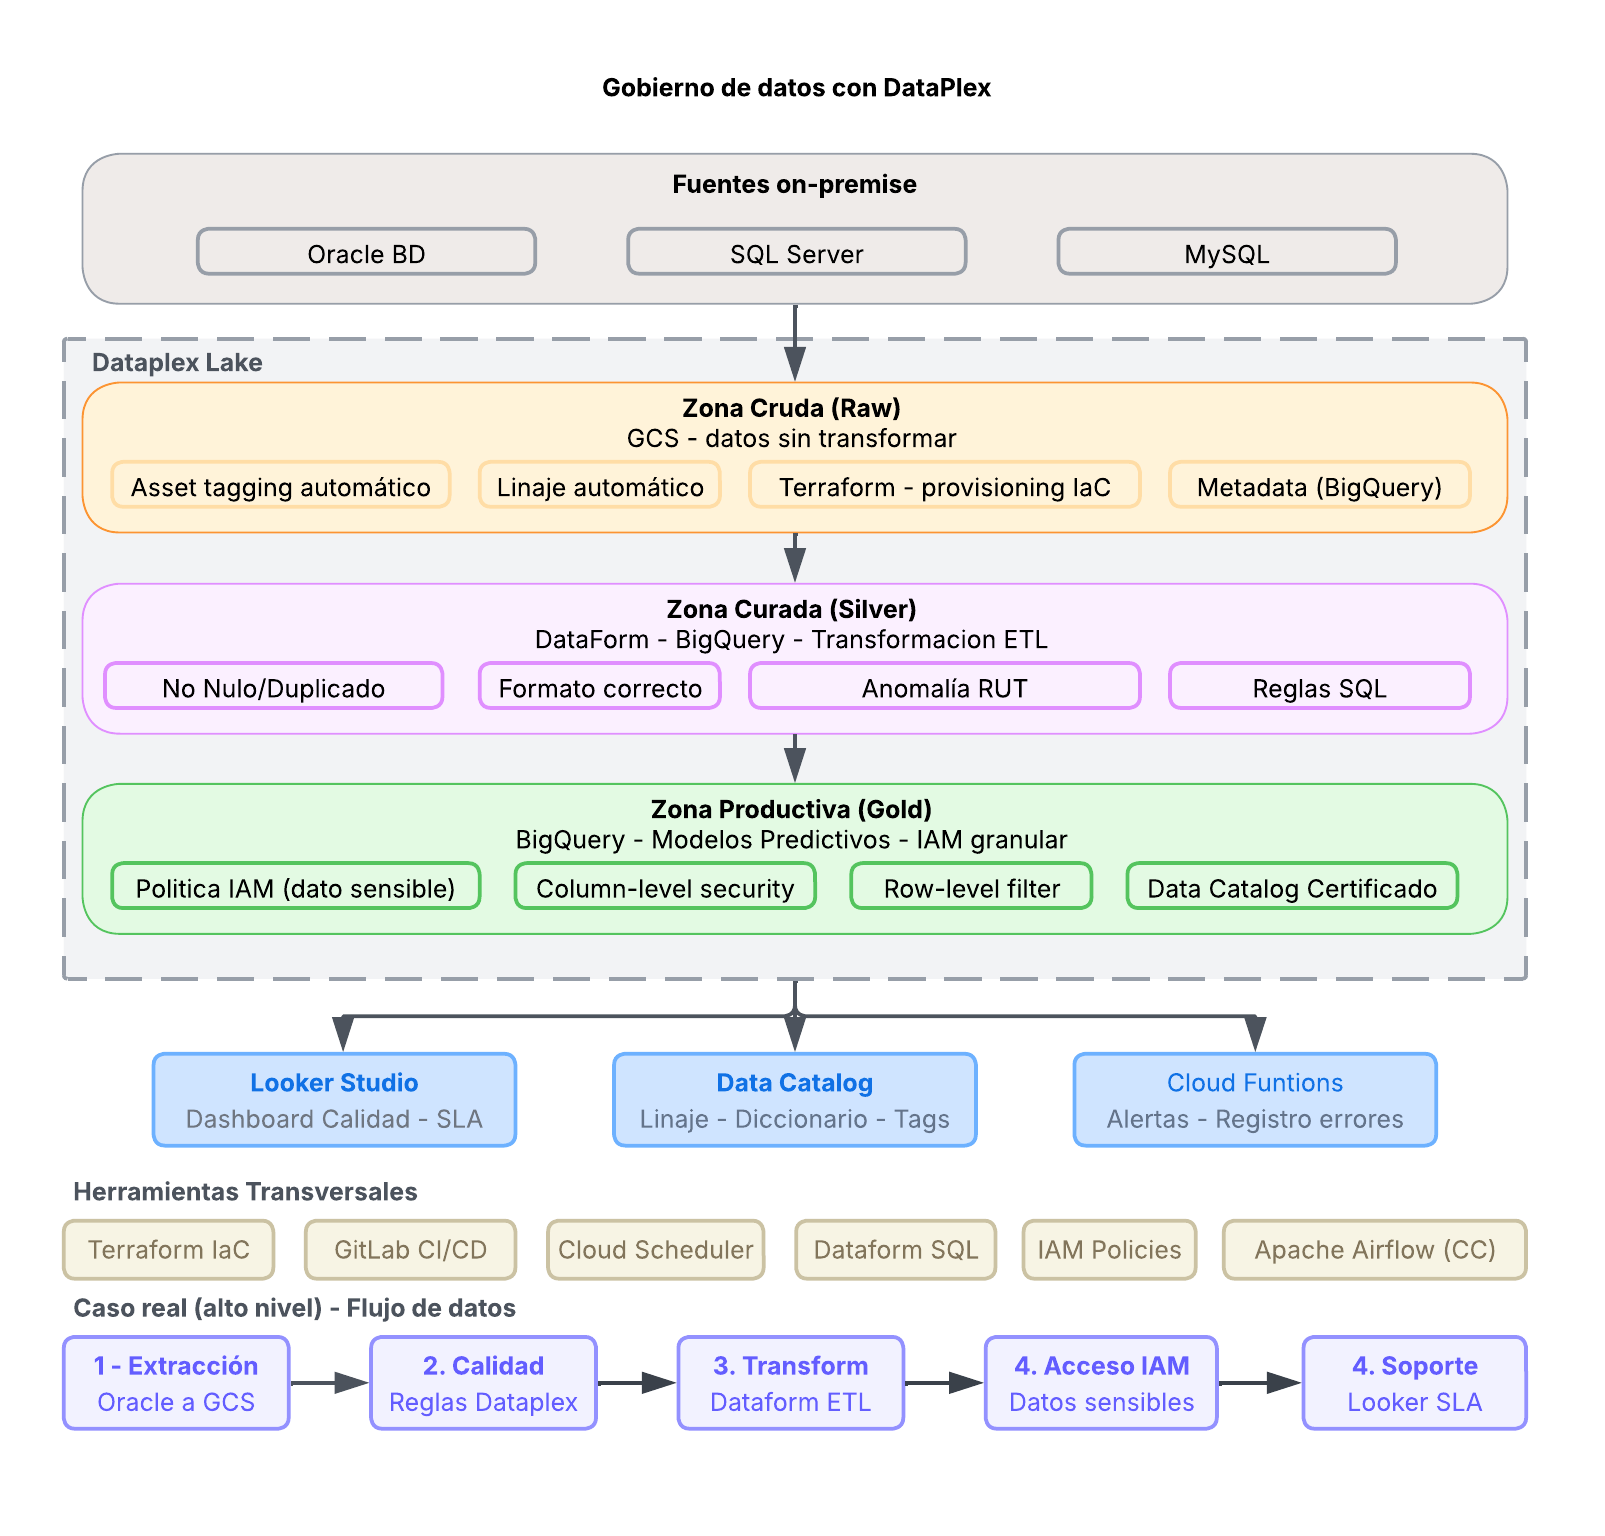
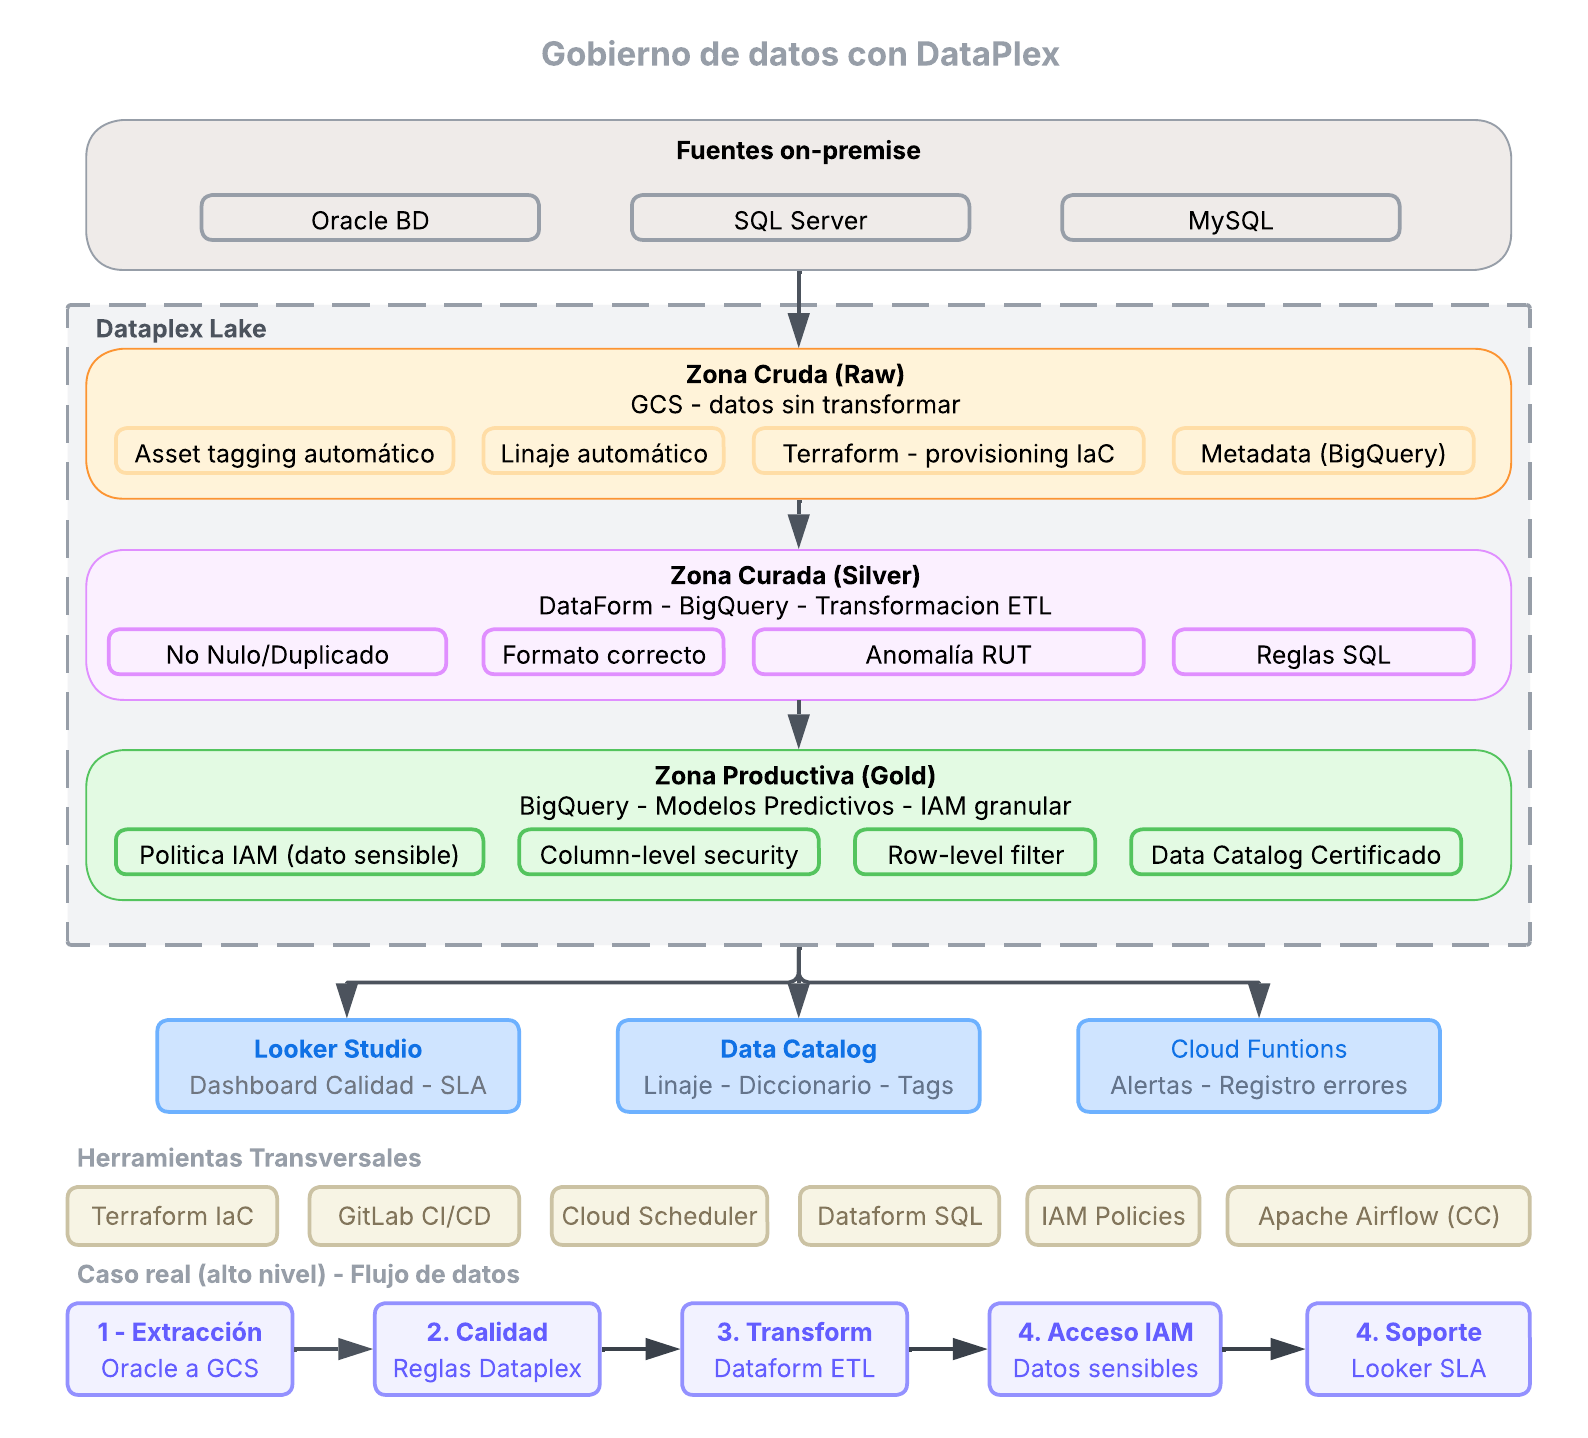
feat: Agregar POC Generador de Metadata con IA en AFP Capital
Nuevo proyecto con diagrama, caso real AFP (entradas/salidas), stack
tecnológico y sección input/output en el componente. Actualiza imagen
de arquitectura Dataplex y renombra tablas heredadas de Oracle
(tbl_cotizaciones → tabla_cotizaciones, val_cuota_hist → cuota_historica).

Changed region(s): [[0.0309, 0.0918, 0.9874, 0.9791], [0.3394, 0.0306, 0.6788, 0.0612], [0.0309, 0.1224, 0.0617, 0.1836]]

diff --git a/src/components/sections/company/ProjectDetail.module.css b/src/components/sections/company/ProjectDetail.module.css
@@ -243,6 +243,74 @@
   padding: 0.35rem 0.75rem;
 }
 
+.realCaseSection {
+  display: flex;
+  flex-direction: column;
+  gap: 1rem;
+}
+
+.realCaseSection > h2 {
+  font-size: 1.5rem;
+  font-weight: 600;
+  color: #ffffff;
+}
+
+.ioGrid {
+  display: grid;
+  grid-template-columns: 1fr 1fr;
+  gap: 1rem;
+}
+
+.ioCard {
+  padding: 1.25rem 1.5rem;
+  border: 1px solid rgba(100, 200, 255, 0.15);
+  border-radius: 0.75rem;
+  background: linear-gradient(135deg, rgba(40, 40, 60, 0.6) 0%, rgba(60, 40, 80, 0.6) 100%);
+}
+
+.ioHeader {
+  display: flex;
+  align-items: center;
+  gap: 0.6rem;
+  margin-bottom: 1rem;
+}
+
+.ioHeader i {
+  font-size: 1.2rem;
+  color: #64c8ff;
+}
+
+.ioHeader h3 {
+  font-size: 1rem;
+  font-weight: 600;
+  color: #64c8ff;
+  margin: 0;
+}
+
+.ioCard ul {
+  list-style: none;
+  padding: 0;
+  margin: 0;
+  display: flex;
+  flex-direction: column;
+  gap: 0.65rem;
+}
+
+.ioCard li {
+  font-size: 0.9rem;
+  color: #c7cdd6;
+  line-height: 1.5;
+  padding-left: 1rem;
+  position: relative;
+}
+
+.ioCard li::before {
+  content: '—';
+  position: absolute;
+  left: 0;
+  color: rgba(100, 200, 255, 0.5);
+}
+
 @media (max-width: 768px) {
   .title {
     font-size: 1.8rem;
@@ -257,6 +325,10 @@
   }
 
   .layers {
+    grid-template-columns: 1fr;
+  }
+
+  .ioGrid {
     grid-template-columns: 1fr;
   }
 }

diff --git a/src/components/sections/company/ProjectDetail.jsx b/src/components/sections/company/ProjectDetail.jsx
@@ -7,7 +7,7 @@ const LAYER_COLORS = {
 };
 
 export function ProjectDetail({ project, company, onBack }) {
-  const { name, description, stack, image, architecture } = project;
+  const { name, description, stack, image, architecture, realCase } = project;
 
   return (
     <article className={styles.page}>
@@ -79,6 +79,36 @@ export function ProjectDetail({ project, company, onBack }) {
               </ul>
             </div>
           )}
+        </section>
+      )}
+
+      {realCase && (
+        <section className={styles.realCaseSection}>
+          <h2>Caso Real AFP — Flujo Cotizaciones</h2>
+          <div className={styles.ioGrid}>
+            <div className={styles.ioCard}>
+              <div className={styles.ioHeader}>
+                <i className="ti ti-arrow-right-circle" aria-hidden="true" />
+                <h3>Lo que entra</h3>
+              </div>
+              <ul>
+                {realCase.inputs.map((item, idx) => (
+                  <li key={idx}>{item}</li>
+                ))}
+              </ul>
+            </div>
+            <div className={styles.ioCard}>
+              <div className={styles.ioHeader}>
+                <i className="ti ti-sparkles" aria-hidden="true" />
+                <h3>Lo que sale</h3>
+              </div>
+              <ul>
+                {realCase.outputs.map((item, idx) => (
+                  <li key={idx}>{item}</li>
+                ))}
+              </ul>
+            </div>
+          </div>
         </section>
       )}
 

diff --git a/src/constants/companies.js b/src/constants/companies.js
@@ -126,6 +126,34 @@ export const COMPANIES = [
           'GitLab: Control de versiones de reglas de calidad, configuraciones de Dataplex y DAGs.',
         ],
       },
+      {
+        id: 'afp-poc-generador-metadata',
+        name: 'POC Generador de Metadata con IA',
+        description: 'Prototipo de generación automática de metadata de negocio para las tablas migradas desde Oracle, combinando el esquema real, datos de muestra y documentación regulatoria para producir descripciones, clasificación PII y alertas de calidad sin intervención manual.',
+        image: '/projects/poc_metadata/poc_metadata.png',
+        realCase: {
+          inputs: [
+            'Esquema de tabla_cotizaciones: 127 columnas migradas desde Oracle, con nombres técnicos heredados del sistema legacy.',
+            '50 filas de muestra del último trimestre: datos reales anonimizados para que el modelo detecte patrones y anomalías.',
+            'Documentación regulatoria indexada: D.L. 3.500 y Circulares CMF/SVS vectorizadas para contextualizar cada campo con su obligación normativa.',
+          ],
+          outputs: [
+            'Descripciones de negocio en español: definición de cada columna en lenguaje entendible para el equipo de negocio, sin tecnicismos de Oracle.',
+            'Clasificación PII columna por columna: identifica automáticamente RUT, montos, cuentas y datos sensibles según la regulación vigente.',
+            'Dominio por tabla: asigna a qué área de negocio pertenece cada tabla (Recaudación, Afiliados, Inversiones, etc.).',
+            'Alertas de anomalías: detecta en la muestra valores que romperían pipelines — como los nulos encontrados en cuota_historica antes de que llegaran a producción.',
+          ],
+        },
+        stack: [
+          'Vertex AI / Gemini: Modelo de lenguaje para generar descripciones de columnas y clasificar PII a partir del esquema y documentación regulatoria.',
+          'BigQuery: Fuente del esquema real (INFORMATION_SCHEMA) y extracción de muestras representativas para análisis.',
+          'Cloud Storage: Almacenamiento de documentos regulatorios (D.L. 3.500, Circulares CMF/SVS) indexados para RAG.',
+          'Dataplex Data Catalog: Destino de la metadata generada — tags de negocio, clasificación de sensibilidad y dominio por asset.',
+          'Python: Orquestación del pipeline: extracción de esquema, llamadas a la API del modelo, validación y escritura en el catálogo.',
+          'Cloud Functions: Trigger serverless para ejecutar el generador cuando se detecta una nueva tabla o cambio de esquema.',
+          'RAG (Retrieval-Augmented Generation): Recuperación de fragmentos relevantes de la normativa para fundamentar cada descripción generada.',
+        ],
+      },
     ],
   },
 